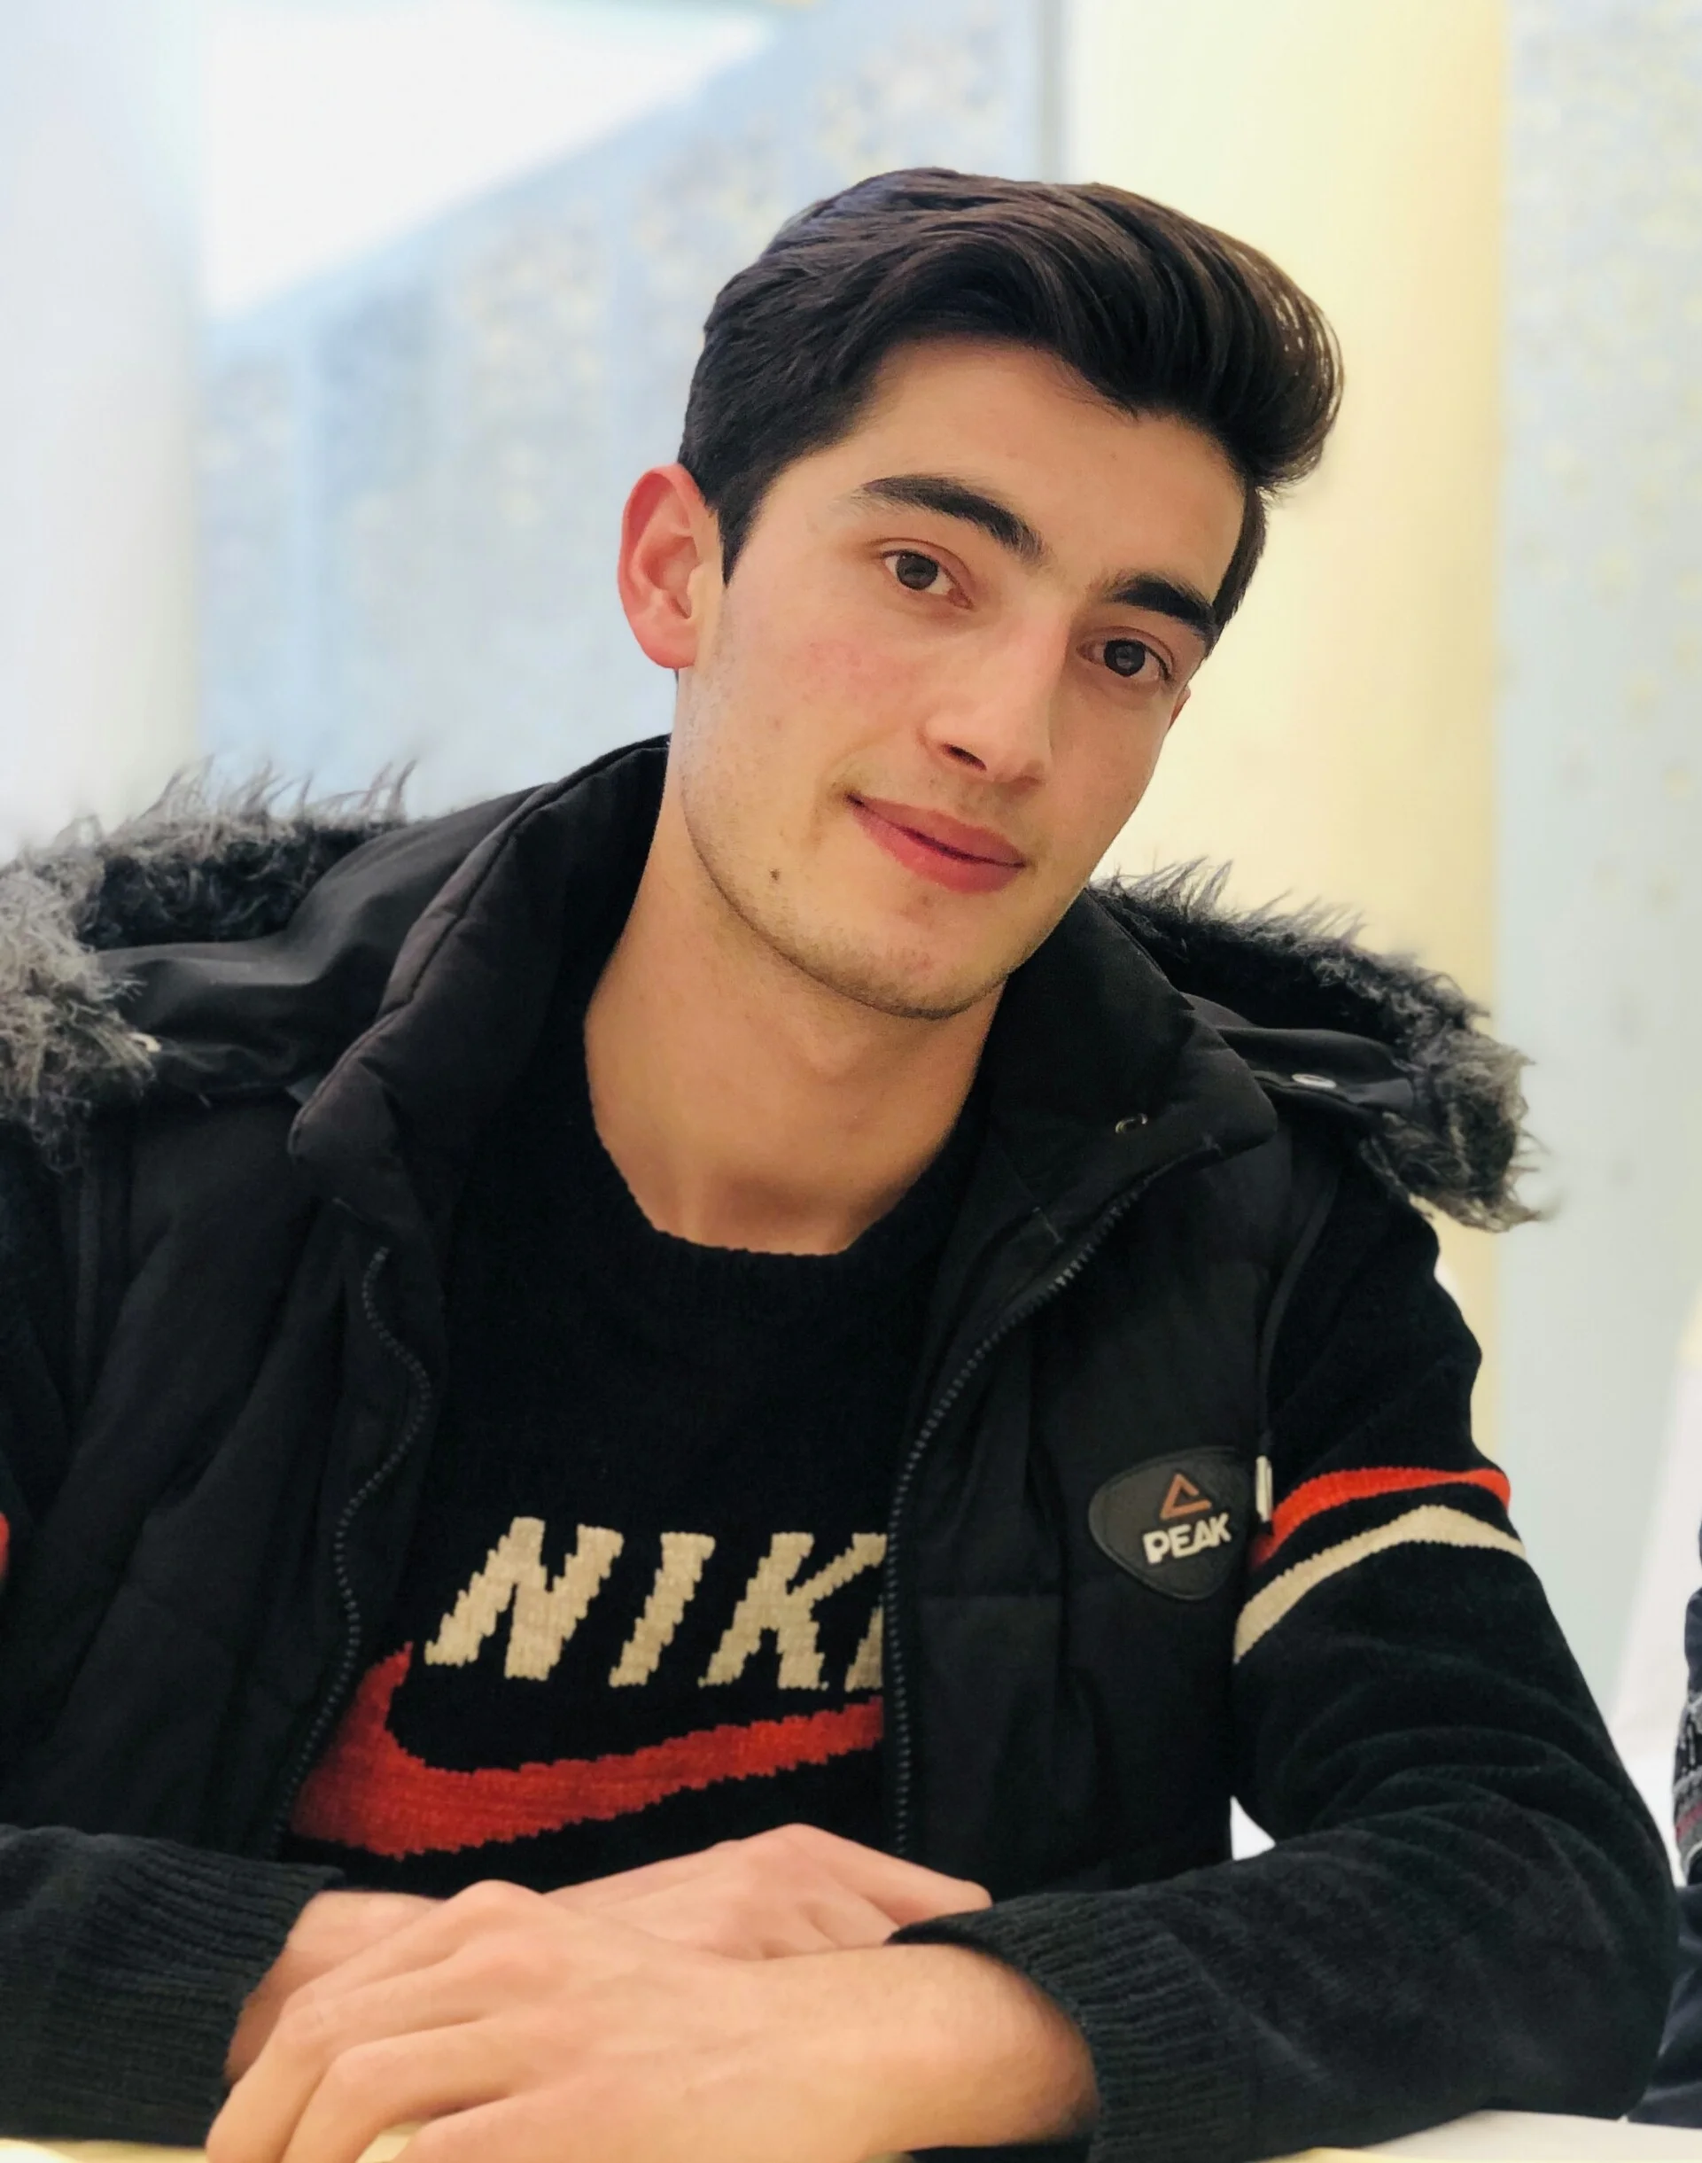
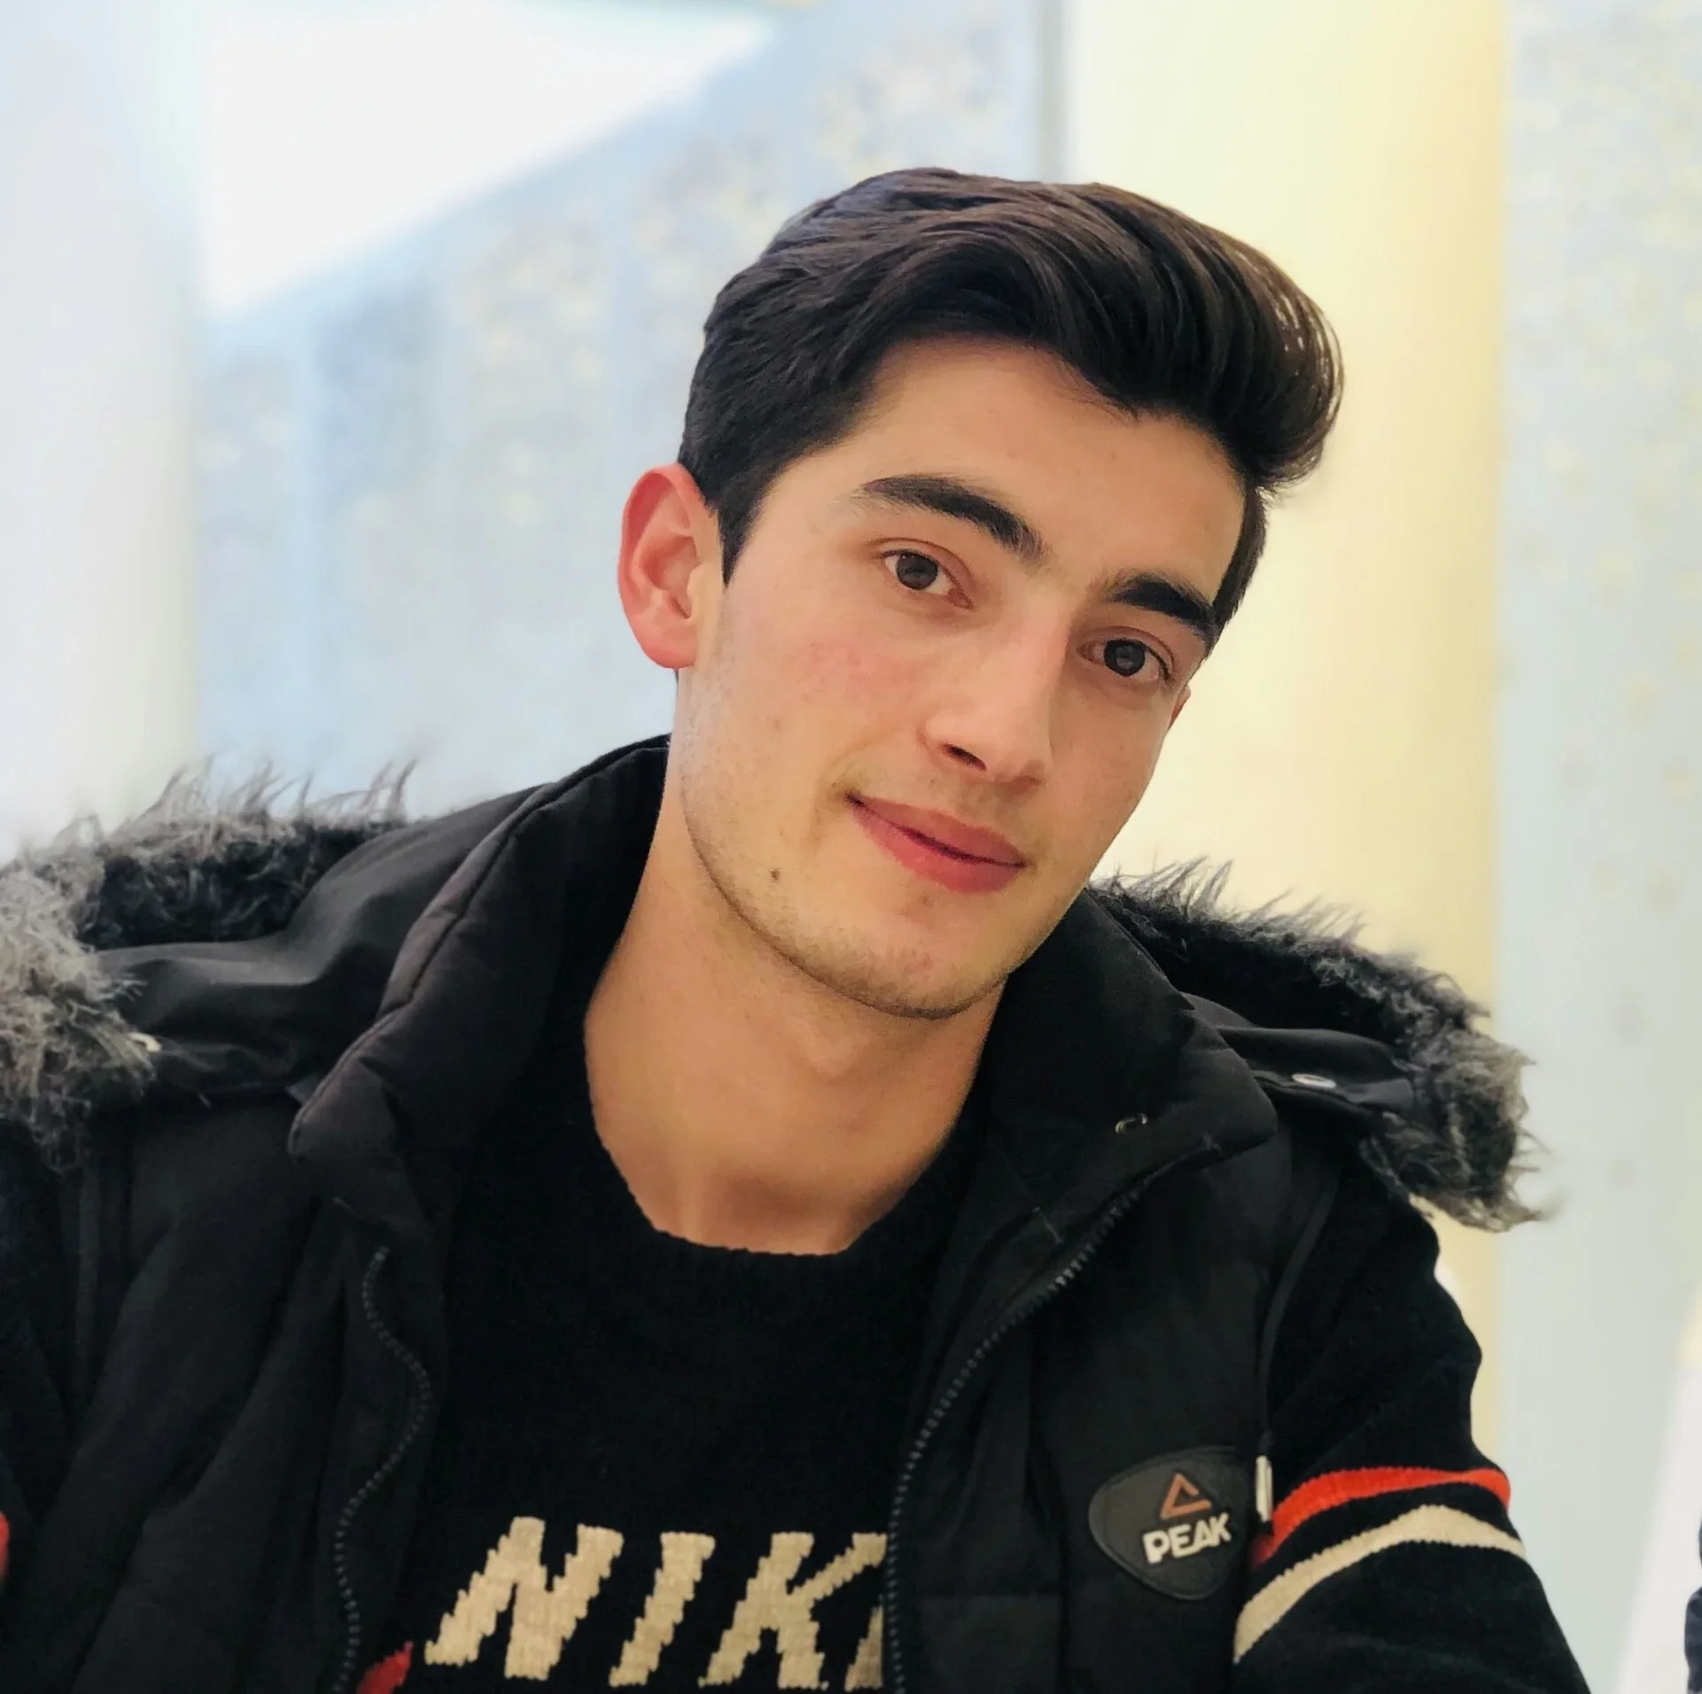
Changing hero section image to glass image

diff --git a/index.html b/index.html
@@ -7,7 +7,7 @@
     <meta content="width=device-width, initial-scale=1.0" name="viewport">
 
     <!-- Favicon -->
-    <link href="img/me/cvpic2.jpg" rel="icon">
+    <link href="img/me/hero_pic.webp" rel="icon">
 
     <!-- Font Awesome -->
     <link href="css/all.min.css" rel="stylesheet">
@@ -84,7 +84,7 @@
         <div class="container">
             <div class="row align-items-center mt-5 mt-md-0">
                 <div class="col-lg-5 px-5 pl-lg-0 pb-5 pb-lg-0">
-                    <img class="img-fluid w-100 rounded-circle shadow-sm" src="./img/me/hero_pic.webp" alt="">
+                    <img class="img-fluid w-100 rounded-circle shadow-sm" src="./img/me/hero_pic3.webp" alt="">
                 </div>
                 <div class="col-lg-7 text-center text-lg-left">
                     <h3 class="text-white font-weight-normal mb-3">I'm</h3>
